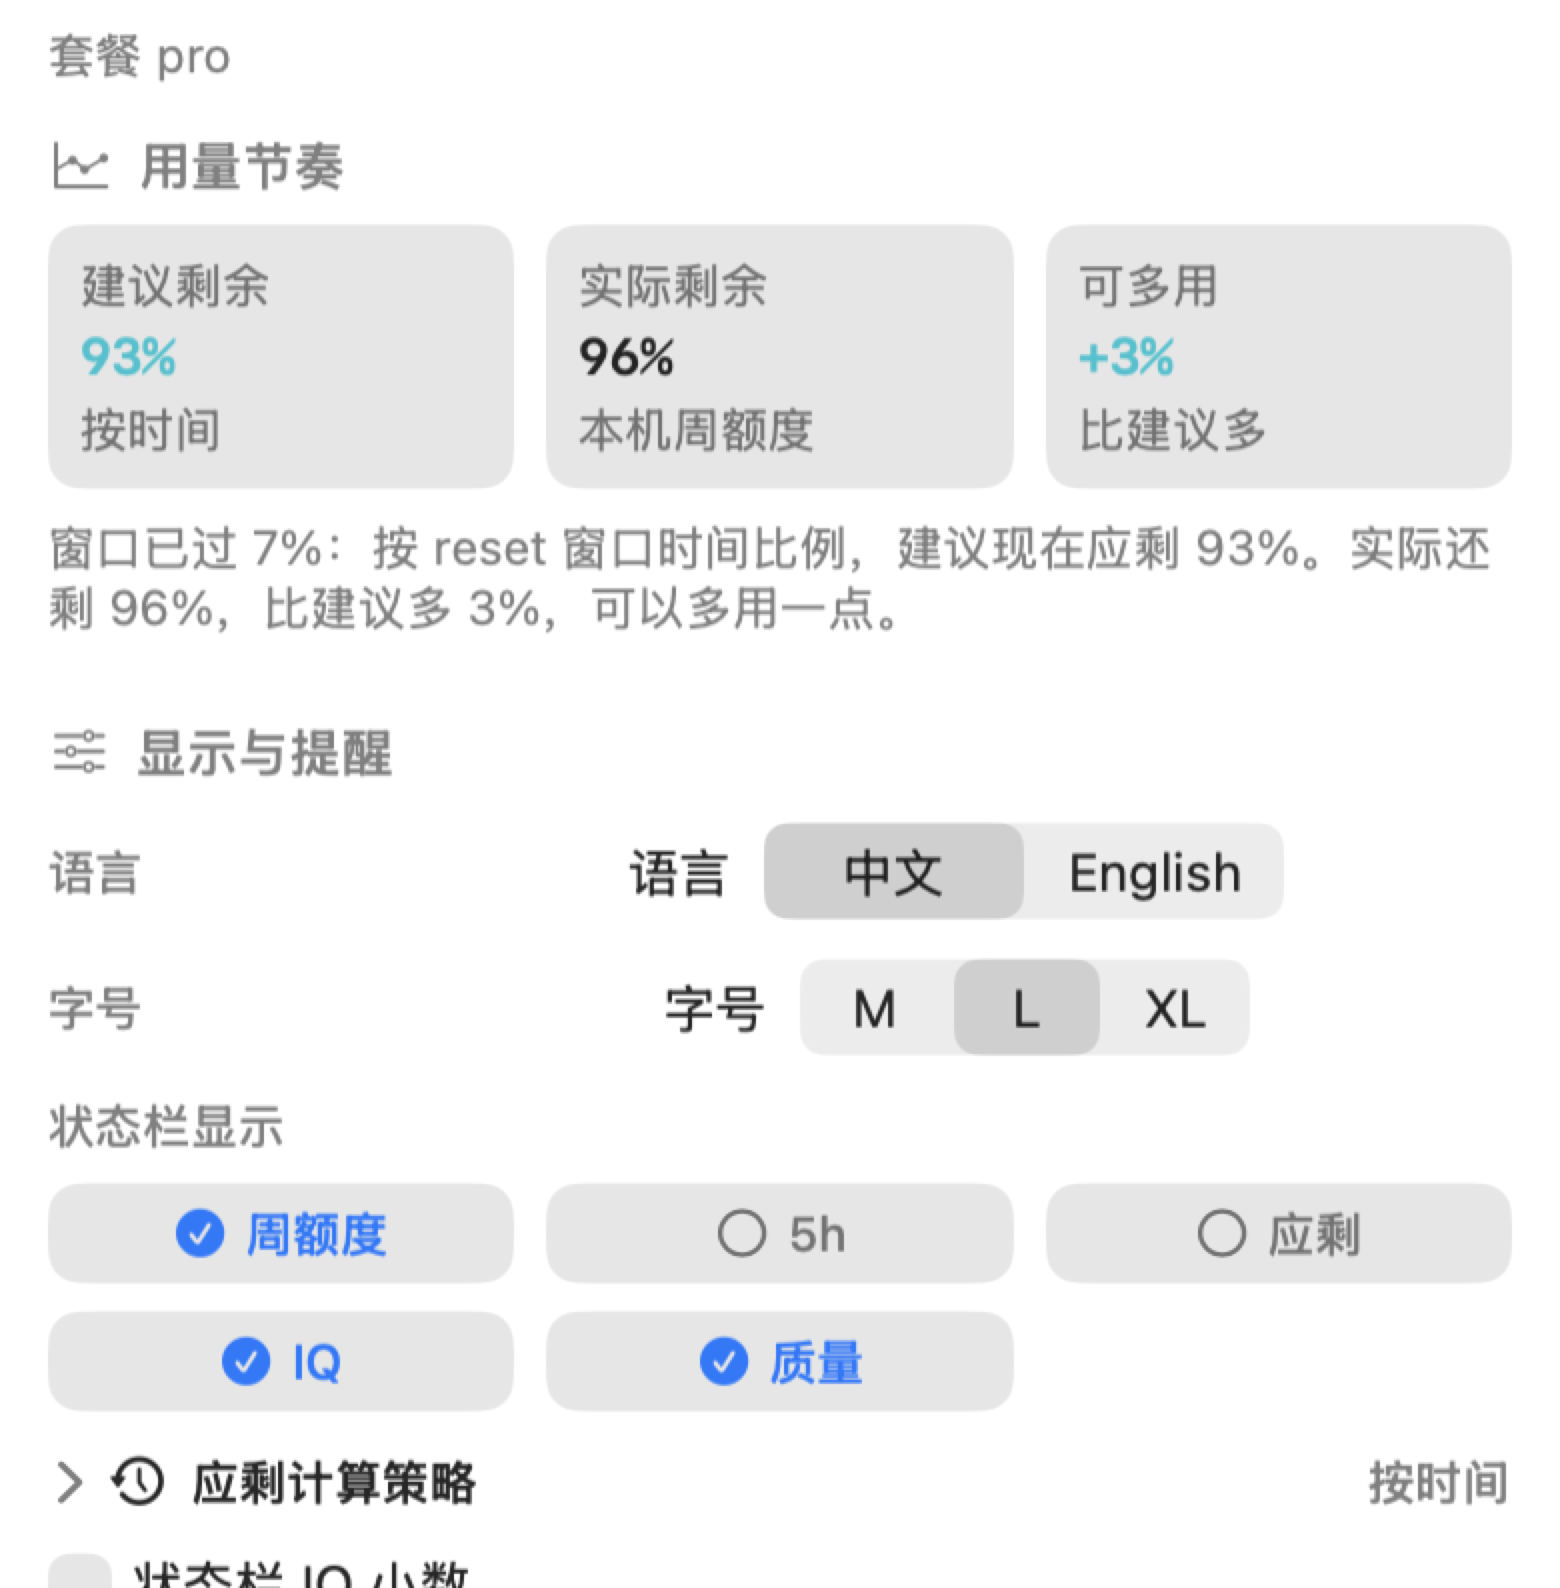
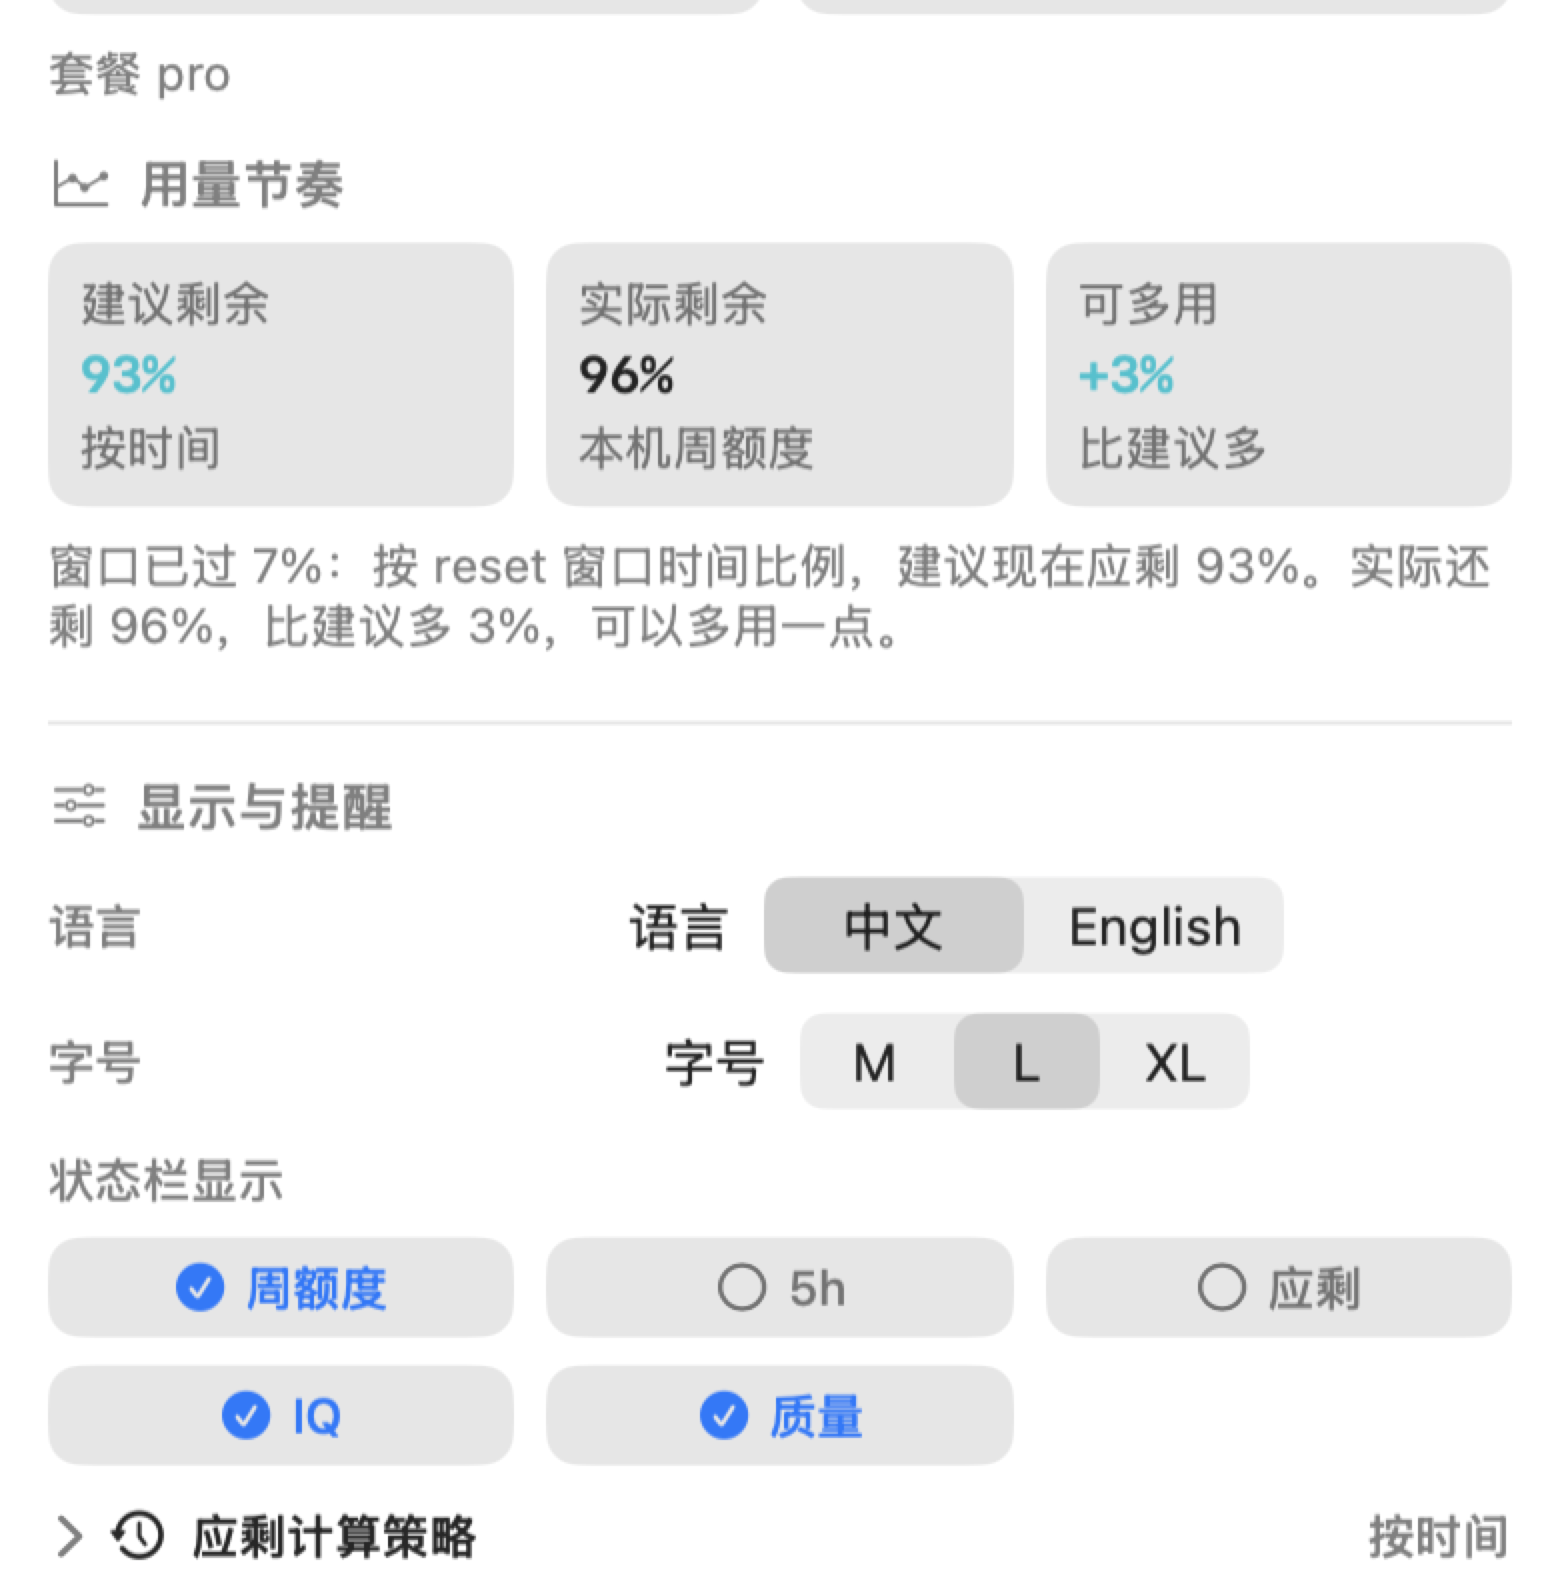
Expand reset radar summaries
Prompt-Id: 59

diff --git a/Sources/CodexRadarSentinel/DashboardMenuView.swift b/Sources/CodexRadarSentinel/DashboardMenuView.swift
@@ -5,6 +5,7 @@ import SwiftUI
 struct DashboardMenuView: View {
     @ObservedObject var store: SentinelStore
     @State private var copiedCommunityPrompt = false
+    @State private var expandedTextKeys: Set<String> = []
     var scrolling: Bool = true
 
     private enum Layout {
@@ -287,10 +288,11 @@ struct DashboardMenuView: View {
                     }
                 }
                 if !judgement.reasons.isEmpty {
-                    Text(resetJudgementReasonsText(judgement))
-                        .font(.system(size: metrics.caption))
-                        .foregroundStyle(.secondary)
-                        .lineLimit(3)
+                    expandableCaptionText(
+                        resetJudgementReasonsText(judgement),
+                        key: "reset-judgement-reasons-\(judgement.title ?? "")-\(judgement.updatedLabel ?? "")",
+                        collapsedLines: 3
+                    )
                 }
             }
         }
@@ -582,11 +584,11 @@ struct DashboardMenuView: View {
                 .foregroundStyle(resetJudgementLevelColor(card.level))
                 .lineLimit(1)
                 .minimumScaleFactor(0.72)
-            Text(card.summary ?? "")
-                .font(.system(size: metrics.caption))
-                .foregroundStyle(.secondary)
-                .lineLimit(3)
-                .fixedSize(horizontal: false, vertical: true)
+            expandableCaptionText(
+                card.summary ?? "",
+                key: "reset-judgement-card-\(card.id)",
+                collapsedLines: 3
+            )
         }
         .padding(8)
         .frame(maxWidth: .infinity, alignment: .leading)
@@ -609,11 +611,73 @@ struct DashboardMenuView: View {
     }
 
     private func resetJudgementReasonsText(_ judgement: ResetJudgement) -> String {
-        let reasons = judgement.reasons.prefix(2)
-        guard !reasons.isEmpty else {
+        guard !judgement.reasons.isEmpty else {
             return text("CodexRadar 暂无原因摘要。", "No CodexRadar reason summary yet.")
         }
-        return reasons.joined(separator: " ")
+        return judgement.reasons.joined(separator: " ")
+    }
+
+    private func expandableCaptionText(
+        _ content: String,
+        key: String,
+        collapsedLines: Int
+    ) -> some View {
+        let trimmed = content.trimmingCharacters(in: .whitespacesAndNewlines)
+        let isExpanded = expandedTextKeys.contains(key)
+        let canExpand = shouldOfferExpansion(trimmed, collapsedLines: collapsedLines)
+
+        return Group {
+            if canExpand {
+                Button {
+                    toggleExpandedText(key)
+                } label: {
+                    VStack(alignment: .leading, spacing: 3) {
+                        Text(trimmed)
+                            .font(.system(size: metrics.caption))
+                            .foregroundStyle(.secondary)
+                            .lineLimit(isExpanded ? nil : collapsedLines)
+                            .fixedSize(horizontal: false, vertical: true)
+                            .frame(maxWidth: .infinity, alignment: .leading)
+                        HStack(spacing: 4) {
+                            Spacer(minLength: 0)
+                            Text(isExpanded ? text("收起", "Collapse") : text("全文", "Full text"))
+                            Image(systemName: isExpanded ? "chevron.up" : "chevron.down")
+                        }
+                        .font(.system(size: metrics.caption, weight: .medium))
+                        .foregroundStyle(Color.accentColor)
+                    }
+                    .contentShape(Rectangle())
+                }
+                .buttonStyle(.plain)
+                .help(isExpanded ? text("点击收起", "Click to collapse") : text("点击查看全文", "Click to show full text"))
+            } else {
+                Text(trimmed)
+                    .font(.system(size: metrics.caption))
+                    .foregroundStyle(.secondary)
+                    .lineLimit(collapsedLines)
+                    .fixedSize(horizontal: false, vertical: true)
+            }
+        }
+    }
+
+    private func shouldOfferExpansion(_ content: String, collapsedLines: Int) -> Bool {
+        content.contains("\n") || visualTextLength(content) > Double(collapsedLines * 32)
+    }
+
+    private func visualTextLength(_ content: String) -> Double {
+        content.reduce(0) { partialResult, character in
+            partialResult + (character.isASCII ? 1 : 2)
+        }
+    }
+
+    private func toggleExpandedText(_ key: String) {
+        withAnimation(.easeInOut(duration: 0.14)) {
+            if expandedTextKeys.contains(key) {
+                expandedTextKeys.remove(key)
+            } else {
+                expandedTextKeys.insert(key)
+            }
+        }
     }
 
     private func copyCommunityPrompt(_ prompt: String) {

diff --git a/Sources/CodexRadarCore/AppConstants.swift b/Sources/CodexRadarCore/AppConstants.swift
@@ -4,7 +4,7 @@ public enum AppConstants {
     public static let appName = "Codex Radar Sentinel"
     public static let clientName = "codex-radar-sentinel"
     public static let bundleIdentifier = "com.codexradar.sentinel"
-    public static let appVersion = "0.1.40"
+    public static let appVersion = "0.1.41"
 
     public static let codexLimitID = "codex"
     public static let weeklyWindowMinutes = 10_080.0

diff --git a/README.en.md b/README.en.md
@@ -9,6 +9,15 @@ Full credit to [CodexRadar](https://codexradar.com/): this project is built on C
 ## News
 
 <details>
+<summary><strong>v0.1.41: Expand long summaries</strong> - Truncated Reset Radar messages can be clicked to show the full text.</summary>
+
+- Reset Radar card summaries and reason summaries stay compact by default, so the dropdown does not grow unnecessarily.
+- When a message is long, a `Full text` control appears below it; click once to expand in place, then click `Collapse` to return to the compact view.
+- Useful for Tibo replies, community counterexamples, and hard-reset notes that are easy to truncate.
+
+</details>
+
+<details>
 <summary><strong>v0.1.40: Reset credit expiry</strong> - The dropdown can manually check and cache each reset credit's expiry time.</summary>
 
 - The `Reset Credit Expiry` section adds `Check Credits`: it reads local Codex auth and requests reset credits only after you click, never as part of the 60-second polling loop.
@@ -420,7 +429,7 @@ swift test
 Run live data and UI checks before a release:
 
 ```bash
-./scripts/check_release_readiness.sh 0.1.40
+./scripts/check_release_readiness.sh 0.1.41
 ```
 
 Build release packages:
@@ -428,7 +437,7 @@ Build release packages:
 ```bash
 swift build -c release
 ./scripts/build_app.sh
-./scripts/package_release.sh 0.1.40
+./scripts/package_release.sh 0.1.41
 ```
 
 Update README menu bar and menu screenshots:

diff --git a/README.md b/README.md
@@ -9,6 +9,15 @@
 ## News / 最新功能
 
 <details>
+<summary><strong>v0.1.41：长摘要可展开</strong> - 重置雷达里的截断消息可以点击查看全文。</summary>
+
+- `CodexRadar 重置雷达` 的路径卡片摘要和原因摘要默认仍保持紧凑，避免菜单变长。
+- 当文本较长时，下方会出现 `全文`；点击后在原位置展开完整内容，再点 `收起` 恢复。
+- 适合查看 Tibo 回复、社区反证、硬重置说明这类容易被截断的长消息。
+
+</details>
+
+<details>
 <summary><strong>v0.1.40：重置卡过期时间</strong> - 下拉菜单可手动查询并缓存每张 reset credit 的过期时间。</summary>
 
 - `重置卡过期` 区块新增 `查询重置卡`：点击后才读取本机 Codex 登录态并请求 reset credits，不接入 60 秒轮询。
@@ -420,7 +429,7 @@ swift test
 发版前做 live 数据和 UI 检查：
 
 ```bash
-./scripts/check_release_readiness.sh 0.1.40
+./scripts/check_release_readiness.sh 0.1.41
 ```
 
 构建 release 包：
@@ -428,7 +437,7 @@ swift test
 ```bash
 swift build -c release
 ./scripts/build_app.sh
-./scripts/package_release.sh 0.1.40
+./scripts/package_release.sh 0.1.41
 ```
 
 更新 README 状态栏和菜单截图：